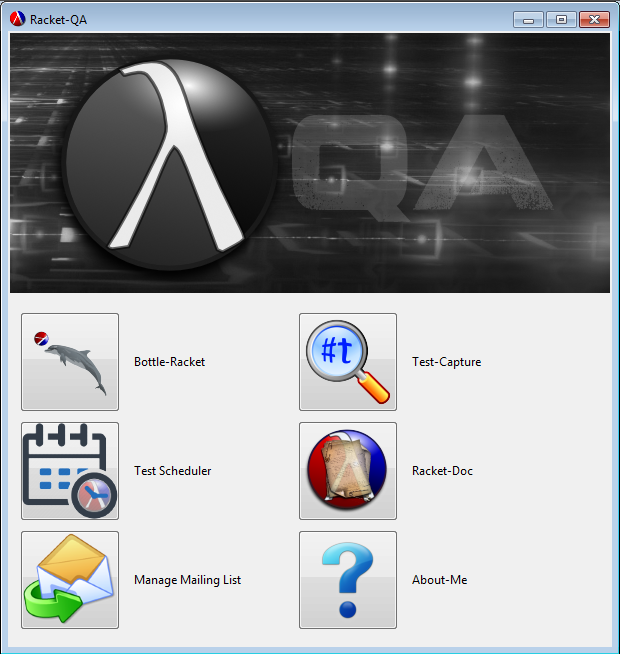
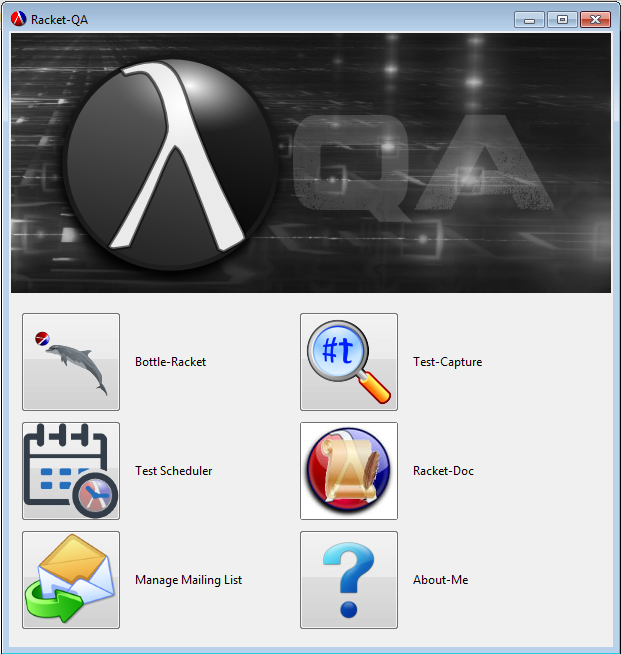
Modified main gui window picture and added running instructions for Racket-QA

diff --git a/webpage.md b/webpage.md
@@ -73,9 +73,30 @@ Anything else you want to say in your report. Can rename or remove this section.
 #How to Download and Run
 Note: After the main gui page has all four working buttons, we could provide a demo video. But we definitely want the user to run the main gui page, not individual components separately in four scripts open.
 
-You may want to link to your latest release for easy downloading by people (such as Mark).
+There are 4 main components to Racket-QA, with a 5th helper component.
+1. Bottle-Racket
+  2. This utility is used to convert Bottlenose test fiels into Racket test suite files.
+1. Test-Capture
+  2. This utility can run a specified test suite, with or without sending an email of the test results to a specified emailing list.
+1. Test Scheduler
+  2. This utility can run test suites at specified time intervals. It also has the option of sending the results of each timed run to a mailing list.
+1. Racket-Doc
+  2. This utility extracts attributes and documentation form source *.rkt fiels and embeds them in generated web pages.
+1. Manage Mailing List
+  2. Configure email database for recipients of test results.
 
-Include what file to run, what to do with that file, how to interact with the app when its running, etc. 
+The script you want to run is `master-gui.rkt`, which is found in the Racket-QA parent directory.
+1. When you run `master-gui.rkt`
+  2. You will be presented with a GUI that has 6 buttons.
+  3. The top-left button is `Bottle-Racket`. See the [**Bottle-Racket Demo Video**][Bottle-Demo] and the [**Bottle-Racket README**][Bottle-Readme].
+  4. The top-right button is `Test-Capture`. See the [**Test-Capture Demo Video**][Bottle-Demo] and the [**Test-Capture README**][Bottle-Readme].
+  5. The middle-left button is `Test-Scheduler`. See [**Scheduler Demo Video**][Scheduler-Demo] and the [**Scheduler README**][Scheduler-Readme].
+  6. The middle-right button is `Racket-Doc`. See the [**Racket-Doc README**][Racket-Doc-Readme].
+  7. The bottom-left button is `QA-Email`, labeled as `Manage Mailing List`. See the [**QA-Email Demo Video**][QA-Email-Demo] and the [**QA-Email README**][QA-Email-Readme]
+  8. The bottom-right button is `About-Me`, which opens up a web page giving a brief description of each Racket-QA component and lists contact information for the development team.
+
+Latest release link to come. 
+
 
 <!-- Links -->
 [QA-Email]: https://github.com/oplS15projects/Racket-QA/blob/master/QA-Email/readme.md
@@ -85,3 +106,10 @@ Include what file to run, what to do with that file, how to interact with the ap
 [RackUnit]: http://docs.racket-lang.org/rackunit/index.html
 [net/SMTP]: http://docs.racket-lang.org/net/smtp.html
 [GUI]: http://docs.racket-lang.org/gui/
+[Bottle-Demo]: https://www.youtube.com/watch?v=Ws2mMMBFns4
+[Scheduler-Demo]: https://www.youtube.com/watch?v=JqngnONV9ks
+[QA-Email-Demo]: https://www.youtube.com/watch?v=jTNaCMzuZeQ
+[Bottle-Readme]: https://github.com/Dossar/Racket-QA/blob/master/Bottle-Racket/README.md
+[Scheduler-Readme]: https://github.com/Dossar/Racket-QA/blob/master/Test-Automation/readme.md
+[Racket-Doc-Readme]: https://github.com/Dossar/Racket-QA/blob/master/Racket-Doc/README.md
+[QA-Email-Readme]: https://github.com/Dossar/Racket-QA/blob/master/QA-Email/readme.md
